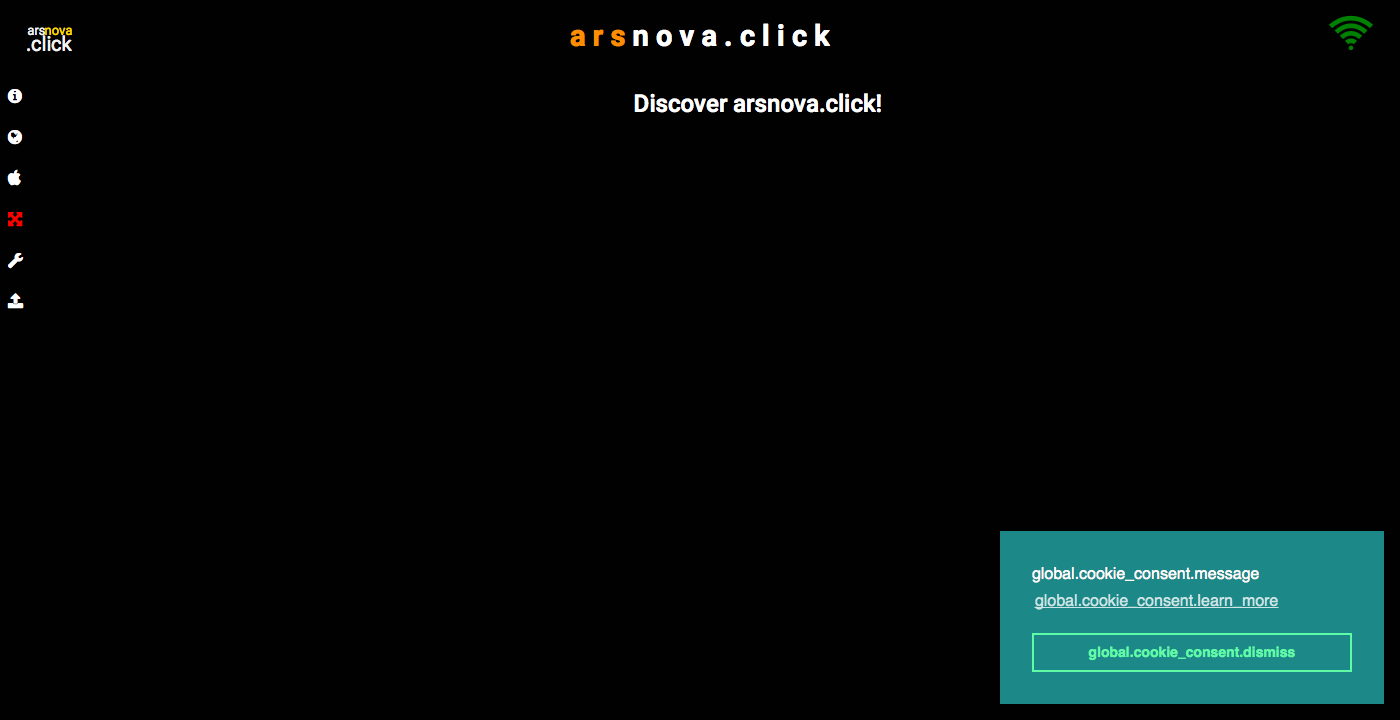
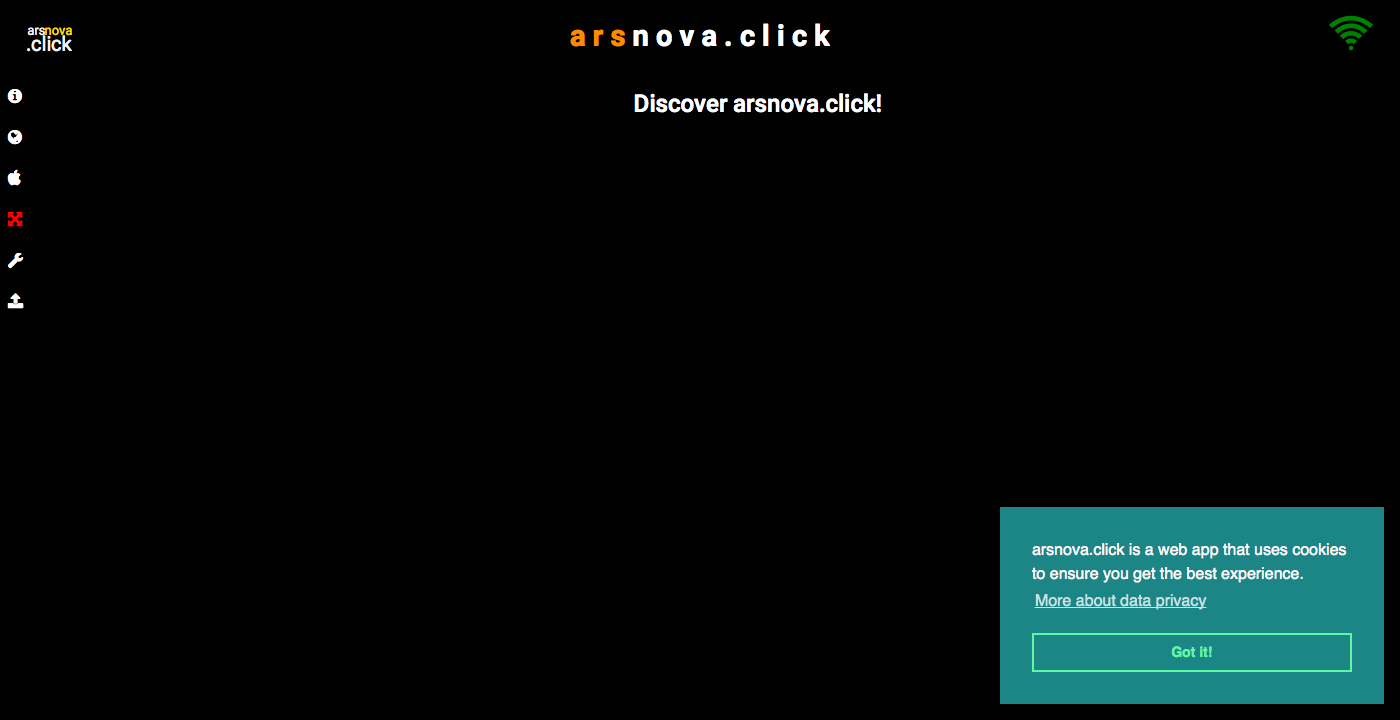
Fix i18nService instantiation

Changed region(s): [[0.7064, 0.7028, 1.0, 0.8556], [0.7679, 0.8861, 0.9214, 0.9167]]

diff --git a/backend/src/index.ts b/backend/src/index.ts
@@ -31,19 +31,17 @@ server.on('error', onError);
 server.on('listening', onListening);
 server.on('close', onClose);
 
-const languages: any = {'en': 'en'};
+const languages = ['en', 'de', 'fr', 'it', 'es'];
 const params: any = [path.join(__dirname, 'phantomDriver.js')];
 const themePreviewEndpoint = 'http://localhost:4200/preview';
 themes.forEach((theme: ITheme) => {
-  for (const languageKey in languages) {
-    if (languages.hasOwnProperty(languageKey)) {
-      pnFs.readFile(path.join(__dirname, `../images/favicons/favicon.svg`))
+  languages.forEach((languageKey) => {
+    pnFs.readFile(path.join(__dirname, `../images/favicons/favicon.svg`))
         .then(svg2png)
         .then(buffer => fs.writeFile(path.join(__dirname, `../images/favicons/favicon_${theme.id}.png`), buffer))
         .catch(e => console.error(e));
-      params.push(`${themePreviewEndpoint}/${theme.id}/${languageKey}`);
-    }
-  }
+    params.push(`${themePreviewEndpoint}/${theme.id}/${languageKey}`);
+  });
 });
 const command: ChildProcess = spawn(phantomjs.path, params);
 command.stdout.on('data', (data) => {

diff --git a/frontend/src/app/root/root.module.ts b/frontend/src/app/root/root.module.ts
@@ -77,12 +77,6 @@ const appRoutes: Routes = [
   imports: [
     BrowserModule,
     CommonModule,
-    RouterModule.forRoot(
-      appRoutes,
-      {enableTracing: false} // <-- debugging purposes only
-    ),
-    SharedModule,
-    ThemesModule,
     TranslateModule.forRoot({
       loader: {
         provide: TranslateLoader,
@@ -94,6 +88,12 @@ const appRoutes: Routes = [
         useClass: TranslateMessageFormatCompiler
       }
     }),
+    RouterModule.forRoot(
+      appRoutes,
+      {enableTracing: false} // <-- debugging purposes only
+    ),
+    SharedModule,
+    ThemesModule,
     HeaderModule,
     FooterModule,
     QuizModule,
@@ -103,12 +103,12 @@ const appRoutes: Routes = [
     NgxQRCodeModule
   ],
   providers: [
+    I18nService,
     FooterBarService,
     ActiveQuestionGroupService,
     ConnectionService,
     WebsocketService,
     CurrentQuizService,
-    I18nService,
     QrCodeService,
     SoundService,
     TranslateModule,

diff --git a/frontend/src/app/root/root/root.component.ts b/frontend/src/app/root/root/root.component.ts
@@ -6,6 +6,7 @@ import {QrCodeService} from '../../service/qr-code.service';
 import {TranslateService} from '@ngx-translate/core';
 import {NavigationEnd, Router} from '@angular/router';
 import * as IntroJs from 'intro.js';
+import {I18nService} from '../../service/i18n.service';
 
 // Update global window.* object interface (https://stackoverflow.com/a/12709880/7992104)
 declare global {
@@ -50,6 +51,7 @@ export class RootComponent implements OnInit, AfterViewInit {
   private _loadCookieConsent = false;
 
   constructor(
+    public i18nService: I18nService, // Must be instantiated here to be available in all child components
     private footerBarService: FooterBarService,
     private headerLabelService: HeaderLabelService,
     private themesService: ThemesService,

diff --git a/frontend/src/app/root/theme-switcher/theme-switcher.component.ts b/frontend/src/app/root/theme-switcher/theme-switcher.component.ts
@@ -1,6 +1,5 @@
 import {Component, OnInit} from '@angular/core';
 import {FooterBarService} from '../../service/footer-bar.service';
-import {TranslateService} from '@ngx-translate/core';
 import {HeaderLabelService} from '../../service/header-label.service';
 
 @Component({
@@ -14,7 +13,6 @@ export class ThemeSwitcherComponent implements OnInit {
 
   constructor(
     private footerBarService: FooterBarService,
-    private translateService: TranslateService,
     private headerLabelService: HeaderLabelService) {
     footerBarService.replaceFooterElements([
       this.footerBarService.footerElemHome,

diff --git a/frontend/src/app/root/theme-switcher/theme-switcher.component.html b/frontend/src/app/root/theme-switcher/theme-switcher.component.html
@@ -1,1 +1,3 @@
-<app-themes (updateTheme)="updateTheme($event)" (previewTheme)="previewTheme($event)" (restoreTheme)="restoreTheme()"></app-themes>
+<app-themes (updateTheme)="updateTheme($event)"
+            (previewTheme)="previewTheme($event)"
+            (restoreTheme)="restoreTheme()"></app-themes>
